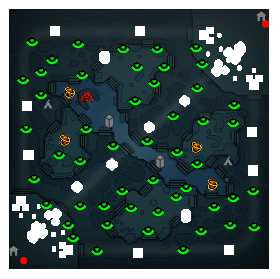
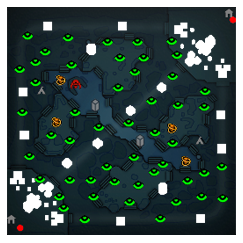
Adjusted anti snipe overlays;

diff --git a/components/pages/antiSnipe.tsx b/components/pages/antiSnipe.tsx
@@ -1,31 +1,41 @@
-import { ReactElement } from "react";
-import getWebsocketUrl from "../../modules/Router";
-import Tether from "@esportlayers/io";
-import { useAbortFetch } from "../../hooks/abortFetch";
-import { fetchUser } from "../dotaStats/Overlay";
 import Overlay from "../antiSnipe/Overlay";
+import { ReactElement } from "react";
+import Tether from "@esportlayers/io";
+import { fetchUser } from "../dotaStats/Overlay";
+import getWebsocketUrl from "../../modules/Router";
+import { useAbortFetch } from "../../hooks/abortFetch";
 
-export default function AntiSnipePage({auth, testing}: {auth: string, testing: boolean}): ReactElement {
-    const [user] = useAbortFetch(fetchUser, auth);
-    if(user && Boolean(user.useMinimapOverlay)) {
-        return <Tether url={getWebsocketUrl()+'/dota-gsi/live/' + auth}>
-            <div className={'antiSnipe'}>
-                <Overlay frameKey={auth} testing={testing}/>
-            </div>
+export default function AntiSnipePage({
+  auth,
+  testing,
+}: {
+  auth: string;
+  testing: boolean;
+}): ReactElement {
+  const [user] = useAbortFetch(fetchUser, auth);
+  if (user && Boolean(user.useMinimapOverlay)) {
+    return (
+      <Tether url={getWebsocketUrl() + "/dota-gsi/live/" + auth}>
+        <div className={"antiSnipe"}>
+          <Overlay frameKey={auth} testing={testing} />
+        </div>
 
-            <style global jsx>{`
-                html, body {
-                    padding-bottom: 3px;
-                    background-color: transparent;
-                    margin: 0;
-                }
+        <style global jsx>{`
+          html,
+          body {
+            padding-bottom: 3px;
+            background-color: transparent;
+            margin: 0;
+          }
 
-                .antiSnipe {
-                    width: 283px;
-                }
-            `}</style>
-        </Tether>;
-    }
+          .antiSnipe {
+            width: 243px;
+            height: 243px;
+          }
+        `}</style>
+      </Tether>
+    );
+  }
 
-    return null;
+  return null;
 }
